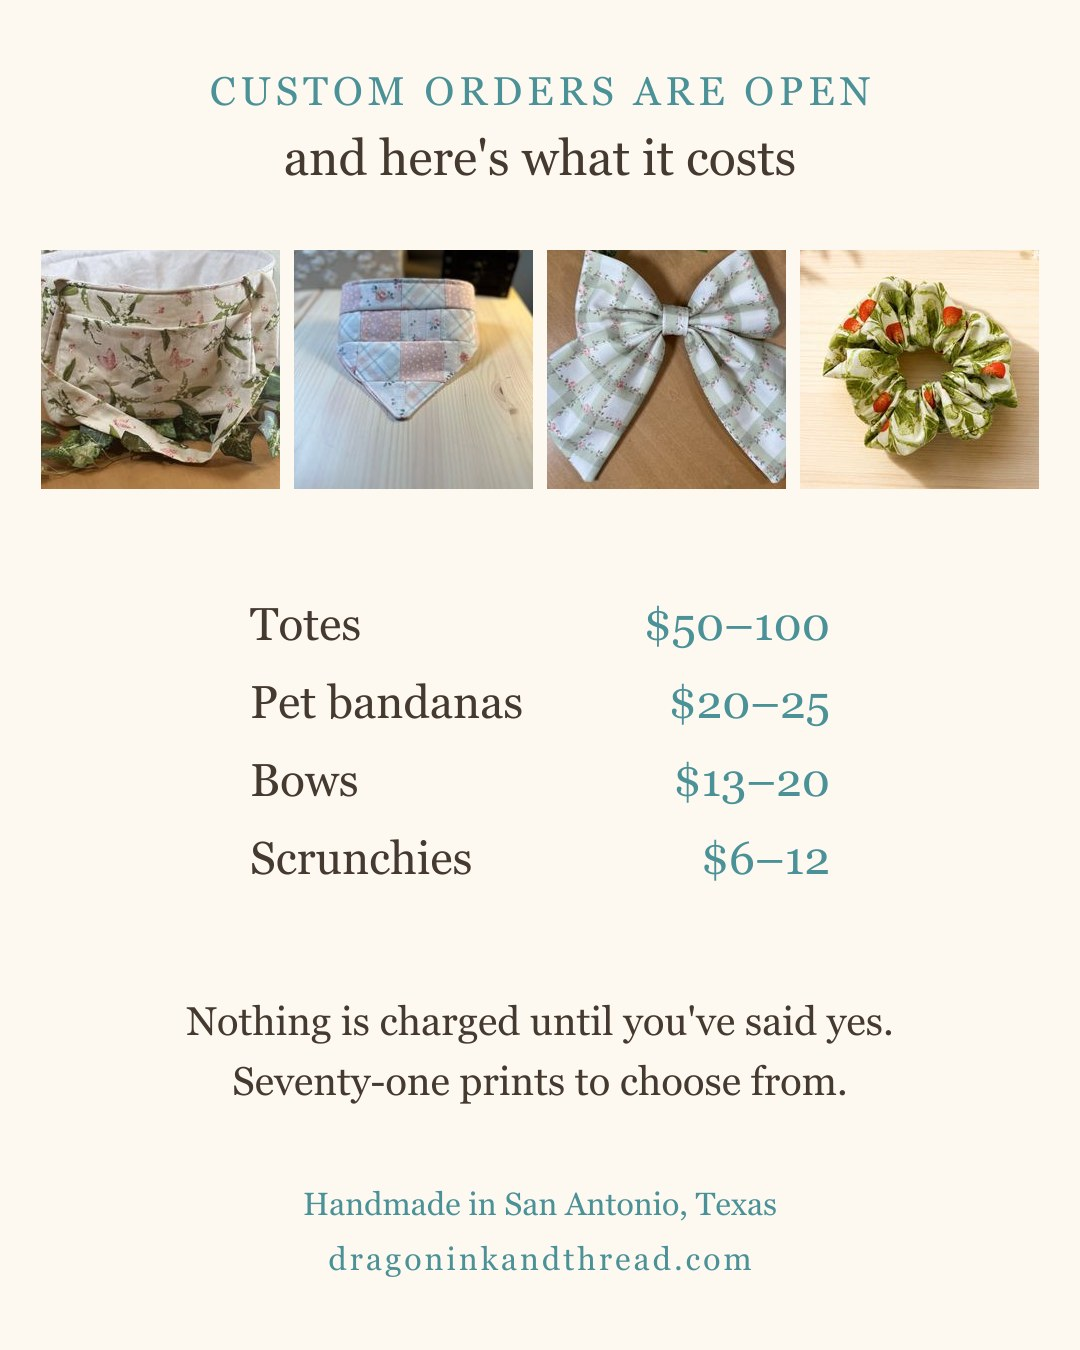
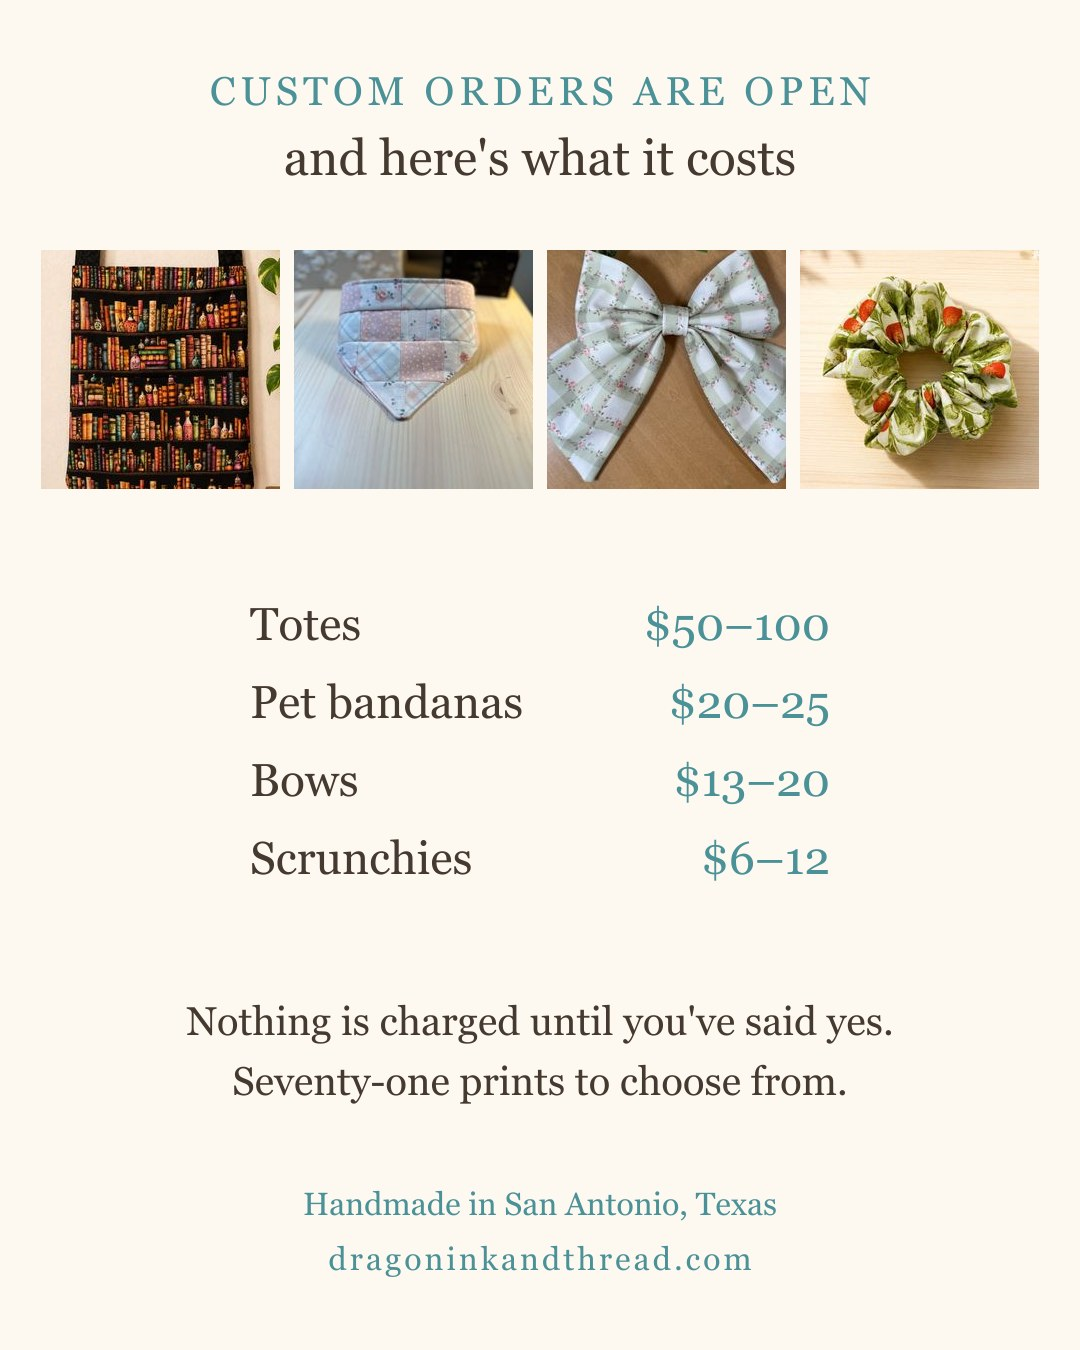
Lead the custom-orders image with the Storykeeper
"The spellbound tote" is Spellbound Shelves, the fabric - there is no
product by that name. The tote made in it is The Storykeeper, so that is
what goes in.

Uses photo -2 rather than the hero. The hero is a room shot of the tote
hanging on a wall, and at 239px square the bag went small and dark beside
three close-ups; -2 fills the frame so the books and potion bottles still
read at thumbnail size. Noted in the code, because the obvious instinct on a
rebuild is to reach for the listing's first photo.

Changed region(s): [[0.0306, 0.1867, 0.275, 0.3733]]

diff --git a/tools/build-pin-images.js b/tools/build-pin-images.js
@@ -243,8 +243,16 @@ const PRICE_BANDS = [
 
 async function fbCustomOrders() {
   const cell = 239, gap = 14;
+  /* The Storykeeper leads — it is the tote in Spellbound Shelves, the
+     bookshelf-and-apothecary print, and the most on-brand thing the shop has
+     made. ("The spellbound tote" is the fabric's name, not a product name;
+     there is no tote called Spellbound.)
+     ⚠ Photo **-2**, not the hero. The hero is a room shot of the tote hanging
+     on a wall, and at 239px square the bag goes small and dark next to three
+     close-ups. -2 fills the frame, so the books and potion bottles still read
+     at thumbnail size. Pick per-crop, not per-listing. */
   const row = await cells(
-    ["tote-butterfly.jpg", "bandana-quilted-court.jpg", "bow-sage-gingham.jpg", "scrunchie-strawberry.jpg"],
+    ["tote-storykeeper-2.jpg", "bandana-quilted-court.jpg", "bow-sage-gingham.jpg", "scrunchie-strawberry.jpg"],
     cell, gap, 41, 250
   );
 
